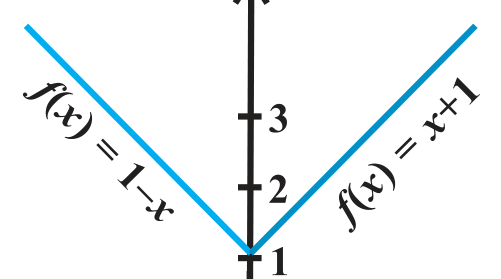
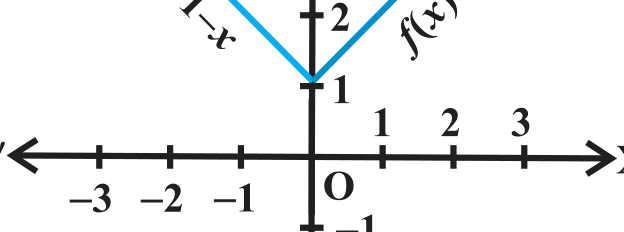
fix: Fig 2.1 vector line graph harvester supporting zero-thickness line segments (max(w,h) >= 10pt) and caption-anchored composite bounding box merging

diff --git a/core_pipeline/infer_pdf.py b/core_pipeline/infer_pdf.py
@@ -75,7 +75,7 @@ def extract_subject_specific_assets(pdf_path: str, subject_prefix: str, img_dir:
                         "src": f"images/{img_filename}"
                     })
 
-            # 2. MATHEMATICS: Harvest & Merge Composite Vector Math Graphs (Venn Diagrams, Set Circles, Arrow Diagrams)
+            # 2. MATHEMATICS: Harvest & Merge Composite Vector Math Graphs (Venn Diagrams, Set Circles, Line Graphs like Fig 2.1)
             drawings = page.get_drawings()
             raw_rects = []
             for d in drawings:
@@ -88,16 +88,39 @@ def extract_subject_specific_assets(pdf_path: str, subject_prefix: str, img_dir:
                 if page_num == 0 and r.y0 < 200.0:
                     continue
                 
-                if w > 15 and h > 15 and w <= 380 and h <= 380 and area_ratio <= 0.25 and r.x0 >= 20 and r.y0 >= 40:
+                # Allow horizontal/vertical line segments (max(w, h) >= 10pt)
+                if max(w, h) >= 10.0 and max(w, h) <= 380.0 and area_ratio <= 0.25 and r.x0 >= 20 and r.y0 >= 40:
                     raw_rects.append(r)
 
-            # COMPOSITE BOUNDING BOX MERGER: Merges shapes at same vertical level (y0 gap < 25pt) into ONE unified diagram image
-            merged_clusters = []
+            # 3. MATHEMATICS: Scan text blocks for Fig X.Y captions (e.g. Fig 2.1) to anchor line diagrams
+            fig_caption_rects = []
+            blocks = page.get_text("dict")["blocks"]
+            for b in blocks:
+                if b.get("type") == 0:
+                    b_text = "".join(span["text"] for line in b["lines"] for span in line["spans"]).strip()
+                    fig_m = re.search(r"Fig\s*(\d+\.\d+)", b_text, re.I)
+                    if fig_m:
+                        fig_rect = fitz.Rect(b["bbox"])
+                        # Search for line drawings within 100pt above the caption
+                        near_rects = [r for r in raw_rects if (fig_rect.y0 - 110) <= r.y0 <= (fig_rect.y1 + 10) and abs(r.x0 - fig_rect.x0) < 100]
+                        if near_rects:
+                            combined = fitz.Rect(
+                                min(r.x0 for r in near_rects),
+                                min(r.y0 for r in near_rects),
+                                max(r.x1 for r in near_rects),
+                                max(r.y1 for r in near_rects)
+                            )
+                            # Expand slightly to capture text labels (s, c, b, red, blue)
+                            combined = fitz.Rect(max(0, combined.x0 - 25), max(0, combined.y0 - 10), min(p_width, combined.x1 + 25), min(p_height, fig_rect.y1 + 5))
+                            fig_caption_rects.append(combined)
+
+            # COMPOSITE BOUNDING BOX MERGER: Merges shapes at same vertical level (y0 gap < 30pt) into ONE unified diagram image
+            merged_clusters = list(fig_caption_rects)
             for r in raw_rects:
                 merged = False
                 for i, m_rect in enumerate(merged_clusters):
-                    # Check vertical alignment and horizontal proximity (gap < 80pt)
-                    if abs(r.y0 - m_rect.y0) < 25.0 and r.x0 < (m_rect.x1 + 90.0) and r.x1 > (m_rect.x0 - 90.0):
+                    # Check if r overlaps or is adjacent to m_rect
+                    if (m_rect.y0 - 20) <= r.y0 <= (m_rect.y1 + 20) and (m_rect.x0 - 50) <= r.x0 <= (m_rect.x1 + 50):
                         merged_clusters[i] = fitz.Rect(
                             min(m_rect.x0, r.x0),
                             min(m_rect.y0, r.y0),
@@ -109,9 +132,22 @@ def extract_subject_specific_assets(pdf_path: str, subject_prefix: str, img_dir:
                 if not merged:
                     merged_clusters.append(r)
 
-            for g_idx, g_rect in enumerate(merged_clusters):
-                # Include surrounding text labels (e.g. 'P', 'Q', 'Fig 2.4') by expanding clip box slightly
-                clip_rect = fitz.Rect(max(0, g_rect.x0 - 6), max(0, g_rect.y0 - 6), min(p_width, g_rect.x1 + 6), min(p_height, g_rect.y1 + 6))
+            # Filter out tiny residual points and huge page-wide boxes
+            final_clusters = []
+            for c in merged_clusters:
+                w = c.x1 - c.x0
+                h = c.y1 - c.y0
+                if w >= 25 and h >= 20 and w <= 380 and h <= 380:
+                    is_dup = False
+                    for existing in final_clusters:
+                        if abs(c.x0 - existing.x0) < 15 and abs(c.y0 - existing.y0) < 15:
+                            is_dup = True
+                            break
+                    if not is_dup:
+                        final_clusters.append(c)
+
+            for g_idx, g_rect in enumerate(final_clusters):
+                clip_rect = fitz.Rect(max(0, g_rect.x0 - 4), max(0, g_rect.y0 - 4), min(p_width, g_rect.x1 + 4), min(p_height, g_rect.y1 + 4))
                 pix = page.get_pixmap(clip=clip_rect, dpi=300)
                 
                 v_filename = f"math_vector_graph_p{page_num+1}_{g_idx}.png"
@@ -127,7 +163,7 @@ def extract_subject_specific_assets(pdf_path: str, subject_prefix: str, img_dir:
                     "width_pt": round(w, 1),
                     "height_pt": round(g_rect.y1 - g_rect.y0, 1),
                     "width_ratio": round(w / p_width, 2),
-                    "is_right_side": g_rect.x0 > (p_width * 0.60),
+                    "is_right_side": g_rect.x0 > (p_width * 0.55),
                     "src": f"images/{v_filename}"
                 })
 
